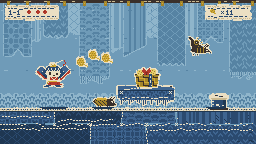
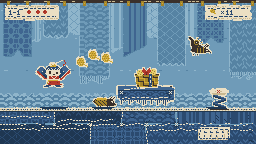
title-01: design concept pre-review 1 (FAIL 6.5) and revision 2 (320x180, face redesign, warm ratio, drying yard, hand-placed marks)
Claude-Session: https://claude.ai/code/session_01BwCev4yJoSeeksS9CS27y6

diff --git a/studio/design-concept/review-1.md b/studio/design-concept/review-1.md
@@ -1,0 +1,98 @@
+# デザインコンセプト事前審査 1回目（gs-reviewer）
+
+対象: studio/design-concept.md、design-concept/scene@5x.png、swatch.png、notes.md
+比較: studio/.gate/browser/1-1-30.png（現状）、studio/characters/tsugi/final/sheet.png（ツギ決定版）
+基準: game-art-direction §0・§2・監査観点。合格 9/10。
+
+## 判定: FAIL（このまま実装した予想スコア 6.5 / 10）
+
+自己採点 7.5 は 1 点高い。現状の画面（緑の丸い木、なだらかな丘、白い点線。たぶん 3）からは大きく進んだ。
+ただし 9 は「人のデザイナーの作品にしか見えない」点で、いまの見本は「方針をよく守ったスクリプト生成のドット絵」に見える。
+
+## 1. AIっぽく見える箇所（画面のどこで）
+
+1. **ツギの顔が決定版と別物になっている（最大の問題）。**
+   - 決定版は墨の輪郭、丸い顔、頬の赤線、口あり。見本は生成りの顔に黒い点目と茜の蝶結び状の口。
+   - 見本のツギは、小さな白い顔に点の目と赤い口が付いた「汎用のかわいいドット動物」に見える。コンセプト §8 が禁じる「丸い顔＋黒い点目」に近い。
+   - 帽子（藍の頭巾）に耳のような突起があり、ネズミや子猫に読める。「振袖の継ぎはぎ童子」（C案）の独自性（針の簪・結び玉・大きな袖）は、26px では袖しか残らない。
+   - 決定版にはコンセプトが禁じた頬の線がある。決定版とコンセプトが矛盾したまま。
+   - 色も食い違う。決定版は藍 #26426b、縹 #5a7fb0、芥子 #d39a22。コンセプトは #2b4a6f、#6f9bb8、刈安 #d1aa36。
+2. **全オブジェクトを同じ生成りで縁取っている。**
+   - ツギ、糸玉、つづら、ばね、敵、足場、HUD のすべてが同じ太さの生成りの輪郭。ステッカーやアセットパックの切り抜きに見える。
+   - 型染めの抜け線は、本来は面の境目として働く。輪郭線の代わりに全部へ付けると、墨の太い輪郭を白に置き換えただけになる。
+   - 背景（縹淡の弱い抜け）との明度差も小さい。
+3. **「手の跡」が乱数で作った揺れに見える。**
+   - notes の「14%は2px」「30%で1px欠かす」「18%でずらす」は、均一な乱数のノイズ。ノイズは全体で同じ密度のため、人の癖ではなく機械の癖に見える。
+   - 地面の白い運針は画面幅いっぱいに同じ調子で続く。長さを揺らしても、意味のない場所に同じ密度で縫い目があり、記号として効いている。
+   - swatch の枠は全部同じ破線。コンセプト自身が禁じる「記号としての縫い目」。
+4. **背景の柄がどこも同じ密度で埋まっている。**
+   - 反物は縹〜藍淡の同じような縦長の布が並び、休む面と主役の面がない。柱や滝、カーテンにも見える。
+   - 竿と洗濯ばさみは上端に小さく出るだけ。「干し場」という物語が画面で読めない。
+5. **色の比率が文書と画面で食い違っている。**
+   - 文書は藍 40%、縹 30%、茜 5%、刈安 3%。画面は縹と縹淡が約 55〜60%、藍濃が約 30%（下段）。
+   - 暖色は茜が約 1.5%（ツギの胴、結び玉、リボン）、刈安が約 4%。背景は白っぽく霞む。
+   - 全体が「薄い水色＋濃紺」の二色に見える。これは「藍染めの和風」の定番配色。
+6. **敵が読めない。**
+   - イガは消炭と刈安の塊。コナは黒い影に近い。ツギの四角に対する「筒・とがり」は、シルエットでも色でも立っていない。
+   - つづらの茜のリボンだけは良い。
+7. **見本帳（swatch）が「AI の提案ボード」の形。**
+   - 見出し、ラベル、色票、「×/＋」の比較が整いすぎ。余白が均一で、手を入れた痕がない。
+   - 版ずれの見本は赤青の縞で、実物の版ずれの感触と違う。
+   - 「人の手のあと 5つ」のラベル文は説明としては良い。
+
+## 2. コンセプトの直し方
+
+### (a) 256x144 のまま顔を面で描く工夫で足りるか → 足りない
+頭が 14x10 では、顔の中の面（頬・額・目・口）に使える画素が少なすぎる。目 2x3 の四角は、愛嬌ではなく「ただの点」。
+工夫（面の分割）で救えるのは 1 点分まで。9 には解像度の余裕が要る。
+
+### (b) 内部解像度を上げるべきか → 上げる。ただし 384x216 ではなく 320x180 を推奨
+- 画面比率ではなく**顔の画素数**が目的。ツギを 32〜34px、頭 20x16 にして、目 3x4（ハイライト1画素）、口と鼻筋を面で描く。
+- 384x216 は 1920x1080 では 5 倍だが、1280x720 では 3.33 倍で整数倍にならない。コンセプト自身が「整数倍のみ」と決めているので破綻する。
+- 320x180 は 1280x720 で 4 倍、1920x1080 で 6 倍、4K で 12 倍。ツギ 34px は画面高の 19%。
+- 320x180 でも、384x216 でも、顔の画素数は同等に確保できる。384x216 を選ぶなら、基準の画面を 1080p に固定する判断が要る（推奨しない）。
+- 影響範囲: ゲームのタイル寸法、カメラ、既存の 256x144 前提のコード。実装前に決める（gs-engineer に影響調査を依頼）。
+
+### (c) 色の比率 → 組み替える
+- 文書の比率ではなく、**画面を測った比率**で再定義する。目標: 寒色（藍・縹）55%、暖色（茜・刈安・生成り）30%、消炭 15%。
+- 背景の縹淡と縹を減らし、茜染めや刈安染めの反物を 2〜3 枚混ぜる。1-1 の昼の草原でも、遠景の反物の一部を茜に染める。
+- ツギだけが画面で最も彩度が高く、最も明るい面を持つようにする。背景は明度を落として、キャラと分離させる。
+- 地面の上端は刈安（布の耳）にして、暖色の線を画面の下半分に通す。
+- 茜は「ツギとつづらの結び玉」だけ、という役割は残す。ただし背景の茜染めは別の色（茜濃・蘇芳寄り）にして区別する。
+
+### (d) 背景の反物の干し場 → 案は良い。画面の作りを直す
+- 干し場は題材と素材（布の島）とつながる。丸い木や丘より明らかに独自。残す。
+- 直す点:
+  - 竿・洗濯ばさみ・支柱を大きく見せ、「干してある」ことが 1 秒で読めるようにする。
+  - 反物の長さと幅を揃えすぎない。風にあおられた 1〜2 枚だけ斜めにする。
+  - 遠景と近景で明度差を付ける（近景を暗く）。
+  - 柄は面ごとに 1 種だけ、密度を落として休む面を作る。
+
+### その他の直し
+1. **ツギの顔の方針を 1 つにする。** 決定版（墨の輪郭・頬線）か、コンセプト（抜け線・頬なし）か。オーナー決定の C案を壊さないよう、決定版のシルエット（簪・結び玉・袖・帯）を残し、顔だけをドット用に再設計する。決定版との差分は design-concept.md に明記する。帽子の耳状の突起をなくす。
+2. **抜け線は「面の境目」だけに使う。** 全オブジェクトの外周は、背景と同じ明度のものは線なし、明度差が足りないものは線あり、と使い分ける。つづら・糸玉・ばねの外周を全部生成りにしない。
+3. **手の跡は乱数ではなく「描き手の癖」にする。** 乱数の確率を減らし、画素を手置きする場所（顔、袖の付け根、結び目、足場の角）を決める。運針は縫い目に意味のある場所（継ぎ目、袖口）だけに置く。
+4. **敵を 2 つ作り直す。** イガは筒＋とがりを、茜の差し色（目か口のほころび）で読ませる。消炭の塊にしない。ボスの蛾は見本帳では良いので、敵 2 種をボスの密度に揃える。
+5. **見本帳を手直しする。** 破線の枠を減らし、版ずれの見本を本物の画面から切り出す。
+
+## 3. 「このまま作れば 9 に届く」条件（チェックリスト）
+
+実装前の再審査で、すべて満たすこと。
+
+- [ ] 内部解像度を決め直した（推奨 320x180）。ツギは 32〜34px、頭 20x16、目 3x4＋ハイライト 1 画素。1280x720 と 1920x1080 の両方で整数倍になる。
+- [ ] ツギの顔を再設計した見本（決定版との差分つき）が新しい scene に入っている。顔だけを 12 倍に拡大しても「汎用の動物」に見えない。黒塗りにして 16px で縮小しても読める。
+- [ ] 見本のスクリーンショットを測り、暖色（茜・刈安・生成り）が 25〜30% 以上、背景の縹淡が 20% 以下。文書の比率表を実測値で書き直した。
+- [ ] 背景の干し場に、竿・洗濯ばさみ・支柱・茜染めの反物が見える。ツギの周囲 40px の背景は、ツギより明度が低い。
+- [ ] 生成りの抜け線を使い分けた。外周全部を縁取っていない（面の境目と、背景と分離できないものだけ）。
+- [ ] 敵 2 種とつづら・ばねが、ツギと同じ解像度の密度（面の分割、しわ、差し色）に揃っている。敵のシルエットが 16px 黒塗りで「筒・とがり」と読める。
+- [ ] 乱数の揺れを減らし、手置きの場所を notes に書いた。画面幅いっぱいに同じ密度で続く運針がない。
+- [ ] 見本帳の破線枠の連続をやめた。
+- [ ] 色の定義が決定版（studio/characters/tsugi/final/）、design-concept.md、notes.md で同じ hex になっている（Grep で確認できる）。
+- [ ] 事前審査 2 回目で 9 以上。指標は、タイトルを隠しても「布でできた島」と分かること、§2 の定番に当てはまらないこと、手の跡が意味のある場所にあること。
+
+## 良かった点（残すべきもの）
+- 題材の借り方（型染め・ちりめん・刺し子）と、禁止リストの具体性。
+- 形の言葉（ツギ＝四角と台形、敵＝筒ととがり）。ボスの蛾の見本は見本帳でいちばん良い。
+- つづらの茜のリボン、糸玉の刈安。暖色の役割が全ステージで固定されている点。
+- HUD の織りネーム（裁ち切りの札）。フォントの 2 書体の分け方。
+- 現状（緑の丸い木・丘）からの方針転換そのもの。

diff --git a/studio/design-concept.md b/studio/design-concept.md
@@ -1,12 +1,17 @@
 # デザインコンセプト: ツギと ほつれ島
 
 - 合格ライン: 大型タイトル **9/10**（「AIが作った感」スコア。オーナー基準 2026-10-04）
-- 状態: **下書き → 事前審査待ち**
+- 状態: **改訂2（事前審査1回目 FAIL 6.5/10 → 直し中）**。審査: studio/design-concept/review-1.md
 - 書いた人: 大型タイトル PM。ツギは C案「振袖の継ぎはぎ童子」（オーナー決定）を前提にする
 
 ## 1. どの Core・Why に答える見た目か
 - Core「忙しい毎日から離れて、時間を忘れて没頭できる遊び」／「多くの人に愛される作品」→ **ひと目で別の世界（布でできた島）に入れること**、**触りたくなる・手元に置きたくなること**
 - Why「10代〜40代、5分でも始められて、じっくり遊びたくなる」→ 一瞬で読めるはっきりした形（5分の入口）と、見るたびに見つかる手仕事の細部（じっくり）
+
+## 1.5 画面の約束（審査1回目を受けて決定）
+- 内部解像度 **320x180**（1280x720 で4倍、1920x1080 で6倍。整数倍が崩れない）。地形のマスは16pxのまま
+- ツギの絵は **32〜34px**（画面の高さの約1/5.5）、頭 20x16、目 3x4＋ハイライト1画素。当たり判定は足もとの 12x24 のまま（絵の方を大きくする）
+- 敵は 20〜24px、ボスは 96x64 級
 
 ## 2. 借りてくる物（実在の物・技法）
 いままでの画面は「藍の継ぎはぎ＋白い点線」という**記号**で布を表していた。記号ではなく、**実在の技法そのものの作り方**を借りる。
@@ -21,6 +26,10 @@
 
 参考にする人の手の仕事: 昭和の型絵染の民藝作品、郷土玩具の張り子と土鈴の塗り、手まり・つるし雛のちりめん細工（作家名・作品名は挙げない）
 
+## 2.5 背景: 反物の干し場（審査で良いと言われた案を強める）
+- 染め場の干し場: 竿・支柱・**大きな洗濯ばさみ（木の割り箸型）**・干された反物（藍・縹・**茜**・刈安の耳）。反物の柄は七宝・青海波・矢絣・鱗
+- 前の層ほど濃く、遠い層ほど淡い。**ツギの高さの帯は暗めの反物**にして、ツギを浮かせる
+
 ## 3. 形の言葉（シェイプランゲージ）
 | 誰 | 基本の形 | 角 | ねらい |
 |---|---|---|---|
@@ -29,18 +38,20 @@
 | ボス（大蛾ケバ等） | **大きな三角の翼＋筒の胴**、翼に文様（蛾の目玉模様を千鳥・七宝で） | 翼の縁はほつれた糸 | 敵の形の言葉を大きくしたもの |
 | 地形 | **長方形の継ぎ布**。上面は布の「耳」（織物の端）か折り返し | 角にまち針や縫い留め | 島＝縫い合わされた布 |
 - シルエットの約束: ツギは「左右に張り出した四角い袖＋頭の上の針（簪）」で、**黒塗りでも 16px でも分かる**。敵は全員、ツギの四角と逆の「筒・とがり」
-- 目: 刺繍の「ふっくらした黒い楕円」は**左右で大きさ・角度を少し変える**。頬の点・左右対称の笑顔（ゆるキャラ文法）は使わない。口は刺繍の1針〜3針
+- 顔（審査1回目の最重要）: 顔布は生成りの**型染めの面**。目は消炭の縦長の面 3x4＋ハイライト1画素で、**左右で1画素だけ高さを変える**。眉は茜の1画素の線で表情を作る。口は刺繍の1〜2針（赤い口の面は使わない）。頬の点・左右対称の笑顔・点目（ゆるキャラ・汎用ドット動物の文法）は使わない
+- 顔だけを12倍に拡大しても「汎用の動物」に見えないこと、黒塗り16pxでも読めること
 
-## 4. 色（名前つき 6色）
-| 名前（実在の色名） | hex | 役割 | 面積の目安 |
+## 4. 色（名前つき 6色）— 実測で守る比率
+| 名前（実在の色名） | hex | 役割 | 画面の面積（スクショ実測の目安） |
 |---|---|---|---|
-| 生成り（きなり） | #ebdfc3 | **抜けの線**（型染めの糊の跡）・顔布 | 線として画面の 5% |
-| 藍（あい） | #2b4a6f | 地（地形・空の下地）／ツギの袖の表 | 40% |
-| 縹（はなだ） | #6f9bb8 | 空・遠景（藍を薄く染めた色） | 30% |
-| 茜（あかね） | #b33a2c | **主役の色**: ツギの胴と袖の裏、大事な物（結び玉）だけ | 5% |
-| 刈安（かりやす） | #d1aa36 | 集めるもの（糸玉・金ボタン）と帯 | 3% |
-| 消炭（けしずみ） | #3a302b | 影・敵のよじれの暗部（真っ黒は使わない） | 10% |
-- ステージの布地ごとに地と空だけを替える（ファスナー谷＝デニムの藍と縹、アイロン台地＝鉄色と灰白、砦＝蘇芳と葡萄）。**茜・刈安・生成りの役割は全ステージで固定**
+| 生成り（きなり） | #ebdfc3 | 抜けの線（**使い分け**: 面の境目と、背景から分けたい物だけ）・顔布・織りネーム | 8〜12% |
+| 藍（あい） | #2b4a6f | 地形・ツギの袖の表・干し場の竿の影 | 35〜40% |
+| 縹（はなだ） | #6f9bb8 | 空と遠景（淡い縹は 20% 以下） | 20〜25% |
+| 茜（あかね） | #b33a2c | 主役: ツギの胴と袖口、**茜染めの反物（背景に1〜2枚）**、結び玉、つづらの紐 | 8〜10% |
+| 刈安（かりやす） | #d1aa36 | 集めるもの・帯・**地形の上面の「耳」（織物の端の色糸）** | 6〜8% |
+| 消炭（けしずみ） | #3a302b | 影・敵の暗部・竿と洗濯ばさみ（真っ黒は使わない） | 10% |
+- 暖色（茜・刈安・生成り）の合計 **25〜30% 以上**。ツギのまわり 40px の背景はツギより暗く
+- この hex は studio/characters/tsugi/final/palette.md・notes.md と同じにする（違えば直す）
 
 ## 5. 文字
 - 見出し: **Kaisei Decol**（型染めの古い看板文字に近い、線の抑揚がある明朝系）
@@ -48,6 +59,7 @@
 - 文字は「織りネーム（布のタグ）」に縫い付けた形で出す。タグの縁は抜けの線と運針
 
 ## 6. 質感と「人の手の跡」（強さつき）
+- **乱数の揺れは控えめにし、手置きの場所を決める**（notes.md に座標の決め方を書く）。画面幅いっぱいに同じ密度で続く運針は作らない。手の跡は「意味のある所」（継ぎ目・角・縫い留め・ほつれ）にだけ
 1. **抜けの線**（型染めの糊の跡）: 全キャラ・全地形の輪郭。強い
 2. **版ずれ**: 色の面を 1〜2px ずらす。キャラは弱く（1px）、背景は強く（2px）
 3. **しぼ**: 布の面ごとに向きを変えた細かい斑。地形は中、キャラは弱
@@ -66,11 +78,11 @@
   - **等間隔の白い点線**の縫い目（記号としての刺し子）
 - 似てしまいそうな既存作品と違い方（studio/characters/similarity.md）: 毛糸（編み目・毛糸の輪郭）は使わない。麻布の全身・ジッパー・ボタン目は使わない。和風ゆるキャラ・郷土玩具の「顔」ではなく、型染めの「面と抜け線」で描く
 
-## 9. 見本（実装前に作る）
-- 1枚絵の見本（ステージ1-1 の代表場面を 256x144 のドット絵で。ツギ・敵2種・つづら・ばねボタン・地形・背景を含む）: `studio/design-concept/scene.png`（実寸と 5 倍）
+## 9. 見本（実装前に作る）— 改訂2 は 320x180 で作り直す
+- 1枚絵の見本（ステージ1-1 の代表場面を **320x180** のドット絵で。ツギ・敵2種・つづら・ばねボタン・地形・背景を含む）: `studio/design-concept/scene.png`（実寸と 5 倍）
 - 色と形の見本帳（6色、抜けの線・版ずれ・しぼ・運針の見本、形の言葉の見本、文字の見本）: `studio/design-concept/swatch.png`
 
 ## 10. 事前審査
 - 審査者: gs-reviewer（作った本人以外）
-- 予想スコアと理由: （審査で記入）
-- 合格ラインに届かない理由と直したこと: （審査で記入）
+- 1回目（2026-10-04）: 6.5/10 FAIL（review-1.md）。直したこと: 解像度 320x180、ツギの顔の再設計、暖色の比率と茜の反物、抜け線の使い分け、手置きの手の跡、敵と小物の密度
+- 2回目: （再審査で記入）

diff --git a/studio/design-concept/notes.md b/studio/design-concept/notes.md
@@ -1,0 +1,51 @@
+# 見本で決めた細かいルール（scene.png / swatch.png の作図で実際に使った数値）
+
+内部解像度 256x144、拡大は最近傍の整数倍のみ。色は 6色＋重ね刷りの8色（下表）。ここに無い色は使わない。
+
+## 色（hex は studio/design-concept.md §4 と同じ）
+- 重ね刷り（版が重なって出る色。しぼ・影・面の明暗はこの中だけで作る）: 藍濃 #1f3752 / 藍淡 #3f6590 / 縹濃 #5683a3 / 縹淡 #8fb5cb / 茜濃 #8a2c22 / 刈安濃 #a4852b / 刈安淡 #e6cd6e / 生成影 #c9b88f
+- グラデーション・半透明・アンチエイリアスは使わない。
+
+## 抜けの線（輪郭）
+- 墨の輪郭は無し。全キャラ・小物・地形の外周を生成り(#ebdfc3)で囲む。
+- 太さ 1px。ただし線の約14%（区間単位）は 2px にふくらむ。小物（ばね・つづら・HUDの札）は 1px 固定。
+- つり（途切れ）: 外周の線は「7〜14px 続いて 1〜2px 途切れる」を繰り返す（途切れ2pxは4回に1回）。向き（上下左右）ごとに周期の位相を変える。
+- 斜めの段差の角は、30%の確率で1px欠かす。
+- 色の面どうしの境目は、キャラ内部では生成りの線を1px手で置く。背景の反物の輪郭は縹淡(#8fb5cb)の1px・つり無し・太らせない（弱い抜け）。
+
+## 版ずれ
+- キャラ: 茜の版を右へ +1px、刈安の版を下へ +1px（墨=目と藍の版は動かさない）。ずれて空いた1pxは「布の地」の生成りが見える。
+- 背景（反物・地形の柄）: 柄の版を右へ +2px、下へ +1px。面の左端と上端に柄の無い帯ができる。
+- 重ね刷り（逆向きに -1px）では境目に茜濃が出る。使うのは swatch の見本のみ。
+
+## しぼ
+- 点ではなく「短い皺の線」。長さ 2〜4px、線と線の間隔 5〜18px。色は面の色から藍濃/藍淡など重ね刷りの2色へ。
+- 面積に対する密度: 空 約3%、地形の継ぎ布 約10%（地面の下段は約8%）、キャラ 約5〜7%（軽く）。
+- 向きは布の面ごとに変える: 横 / 縦 / 斜め（同じ向きを隣の面に使わない）。画面全体に1枚かけない。
+
+## 運針（縫い目）
+- 針目の長さ 2〜4px（一様乱数）、針目の間 1〜2px。等間隔の点線は使わない。
+- 角の手前・端の3px以内は針目2px・間1pxに詰める。
+- 針目ごとに18%の確率で垂直方向に1px ずらす（手縫いの揺れ）。
+- 刺し子（袖・継ぎ布）は生成り、当て布の縫い付けは藍。地形の継ぎ目は継ぎ目線上に1本、内側2〜4px に縫い代の1本。
+- 継ぎ目の交点（4枚が会う所）に生成りの X 止め（5px、中心＋斜め4点）を置き、その4方向へ短いしわ（藍濃の線 2〜4px、3本の扇）を出す。
+
+## 縫い縮めのしわ
+- 継ぎ目・縫い止めに向かって、藍濃(茜は茜濃)の1px線を2〜4px長で扇状に3〜4本。キャラは袖の付け根と胴の裾、ちりめん小物は口の周り。
+
+## 形（ドット絵の寸法）
+- ツギ: 身長24〜26px（髷〜足）、頭 14x10、胴 10px幅、袖は長さ約11・幅 約8の平行四辺形（袖の裏の茜は端から2px）。針(簪)は生成り1px・糸は茜1px。目は左 2x3・右 2x2 で大きさと高さを変える。口は1〜3針。
+- イガ 22x11（筒＋片側だけとがった頭）、コナ 22x16（大三角の翼＋筒の胴）、つづら 24x20、ばねボタン 18x22、糸玉 8x8、ボス 64x52。
+- 縦線は縞・七宝(格子の円弧 d=8〜15)・青海波(R=9, リング幅 R×0.27)・矢絣(幅5)・鱗(10x4)の5種から。丸い木・もこもこの雲・なだらかな丘は無し。
+
+## 地形・背景
+- 地面の上端は「布の耳」3行: 生成り / 生成り+生成影の斑 / 生成り+藍の織り目の点、その下に藍濃1行。
+- 継ぎ布の境界は ±1px で揺らす（7〜9px ごと）。上段の高さ 13〜16px、下段 20px。
+- 背景は 3層: 干し場の竿（消炭 3px＋刈安の洗濯ばさみ）→ 反物（縹濃 or 藍淡、幅22〜29、長さ36〜76、下端は燕尾・ピンキング・斜め・ほつれ房の4種）→ 手前の遠景帯（青海波）。遠くの反物は縹淡で縮めて薄く。
+
+## HUD（織りネーム）
+- 札は生成り、高さ13px、左端は3行ごとに1px欠け・右端は4行ごとに欠ける（裁ち切り）。上下の縁は生成影の織り目、内側2px に藍の運針。文字は 3x5 のドット数字、字間1px、版ずれで札から+1px。
+- 実機の見出しは Kaisei Decol Bold、本文は DotGothic16（game/fonts の woff2。OFL）。
+
+## 再現スクリプト
+- /tmp/.../scratchpad/concept/{lib,sprites,scene,swatch}.js（一時置き場。エンジンへは上の数値で移す）。
